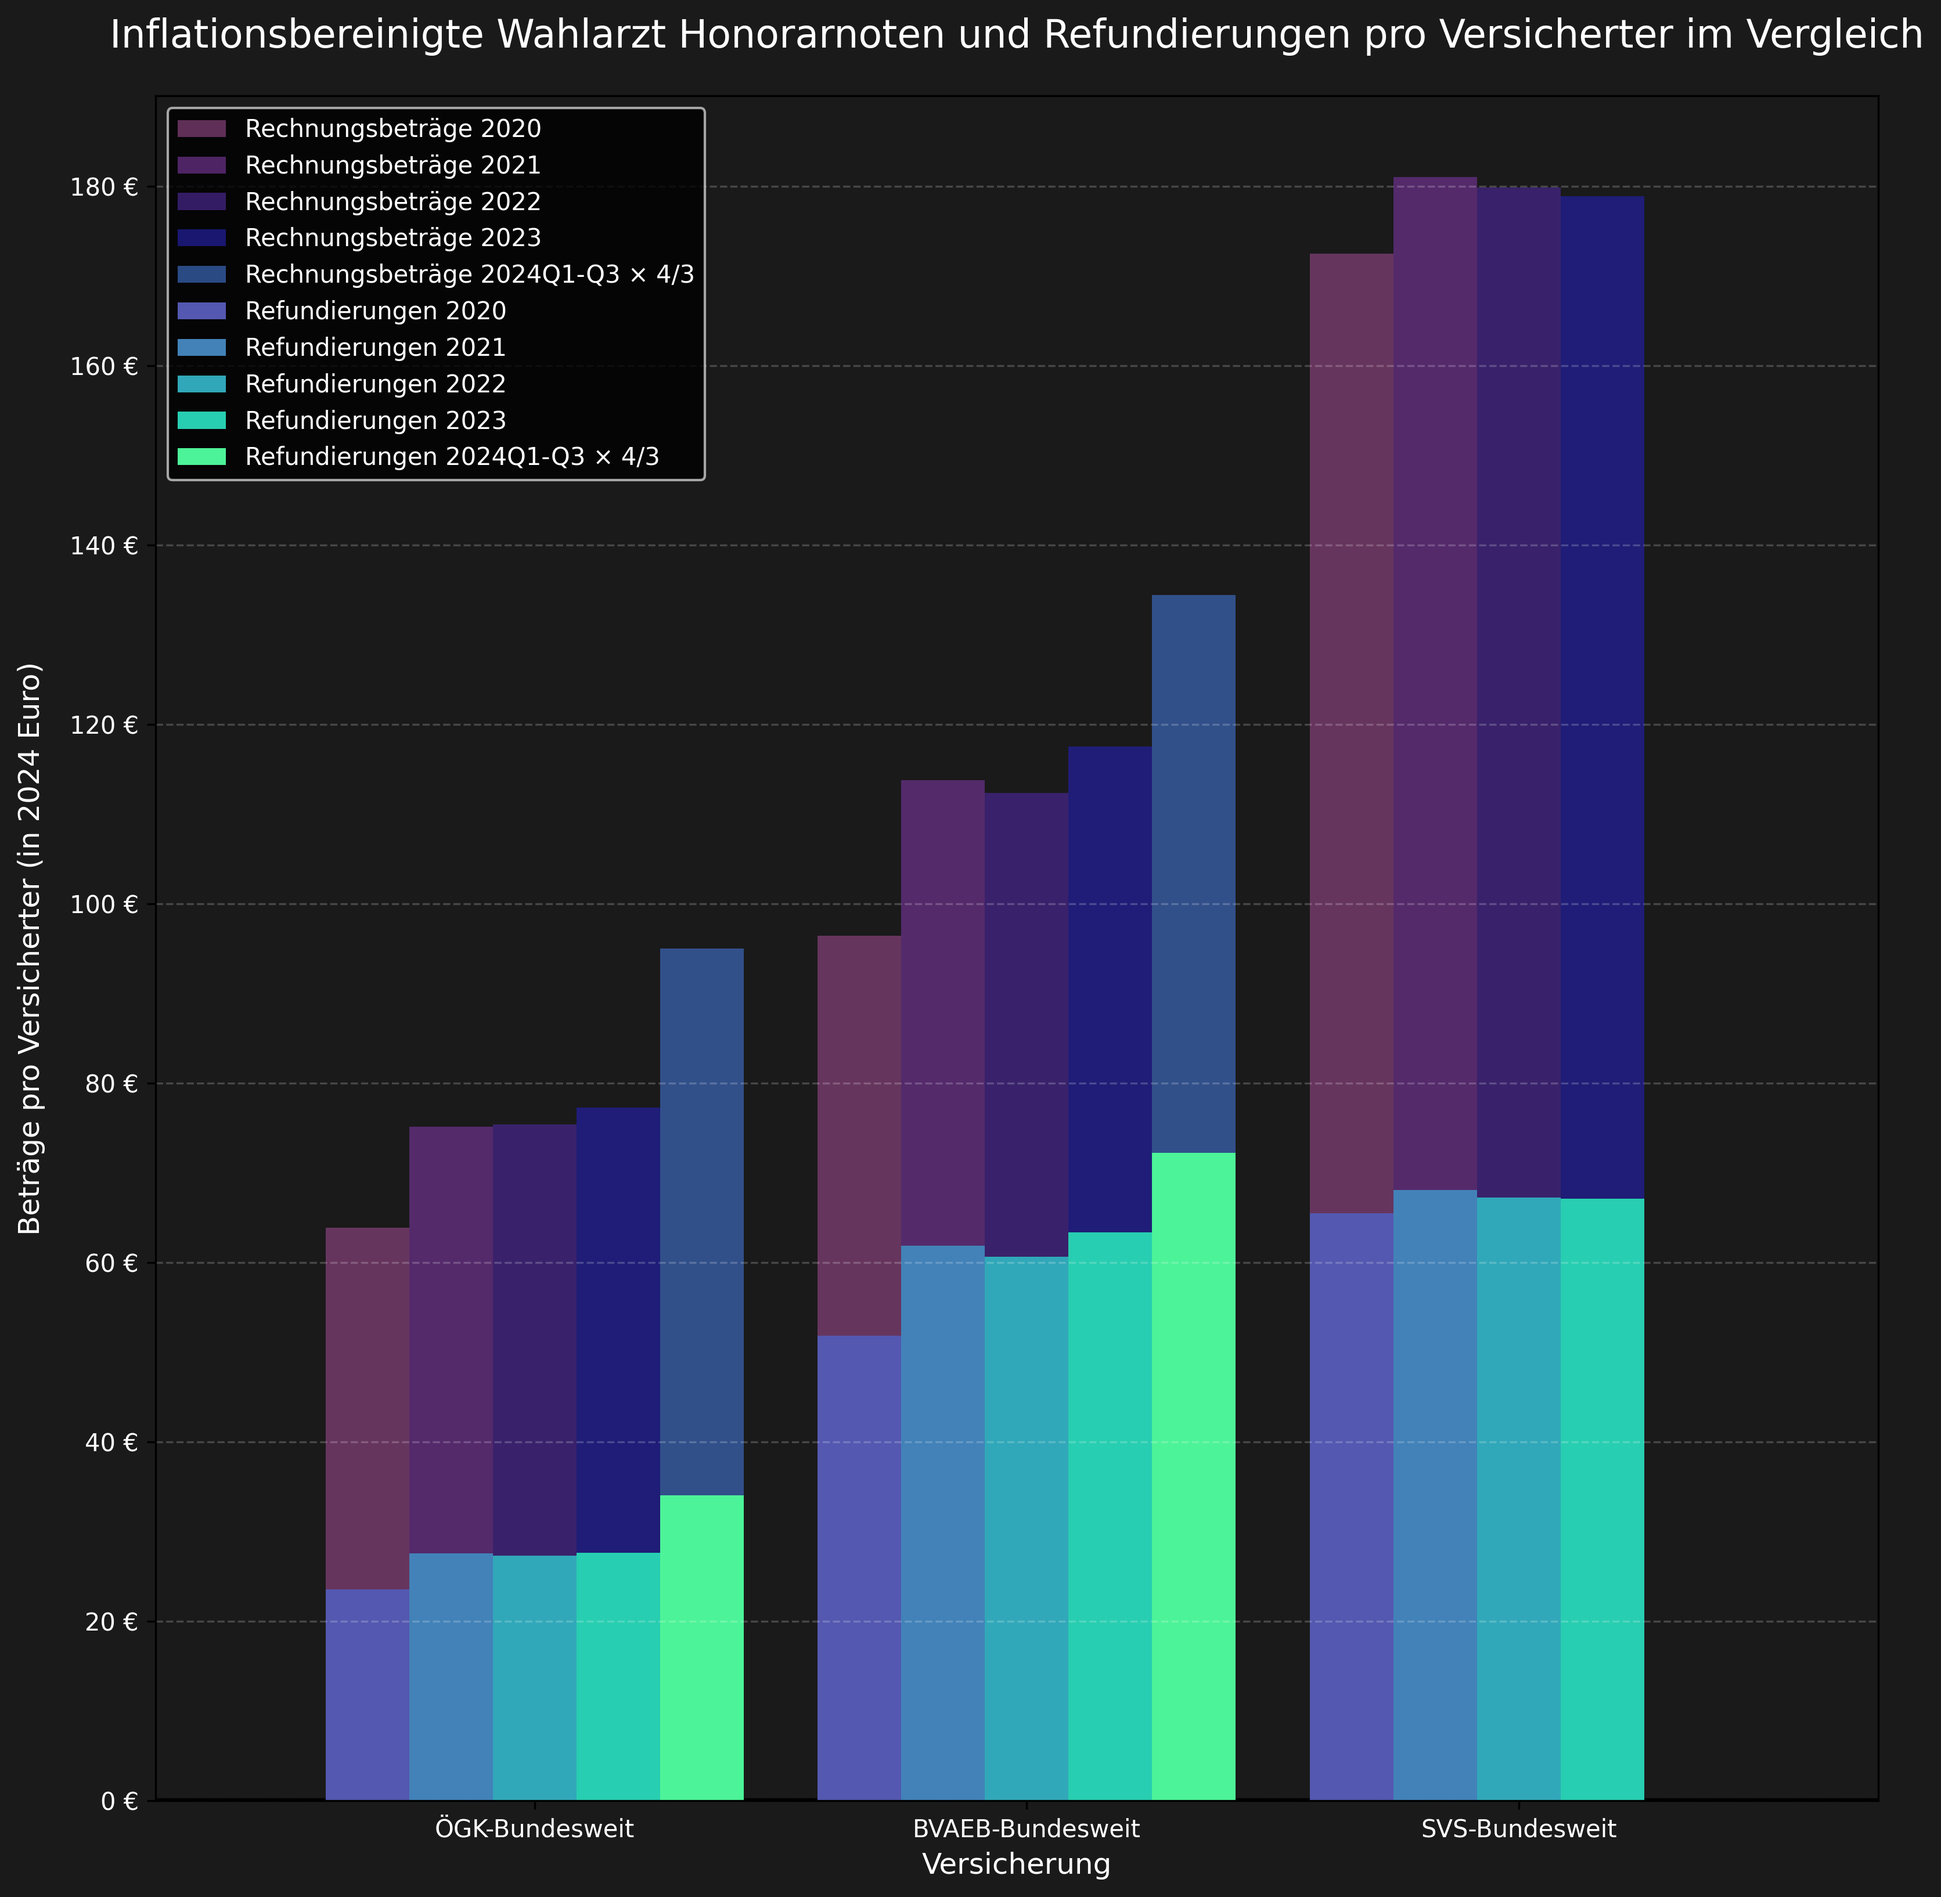
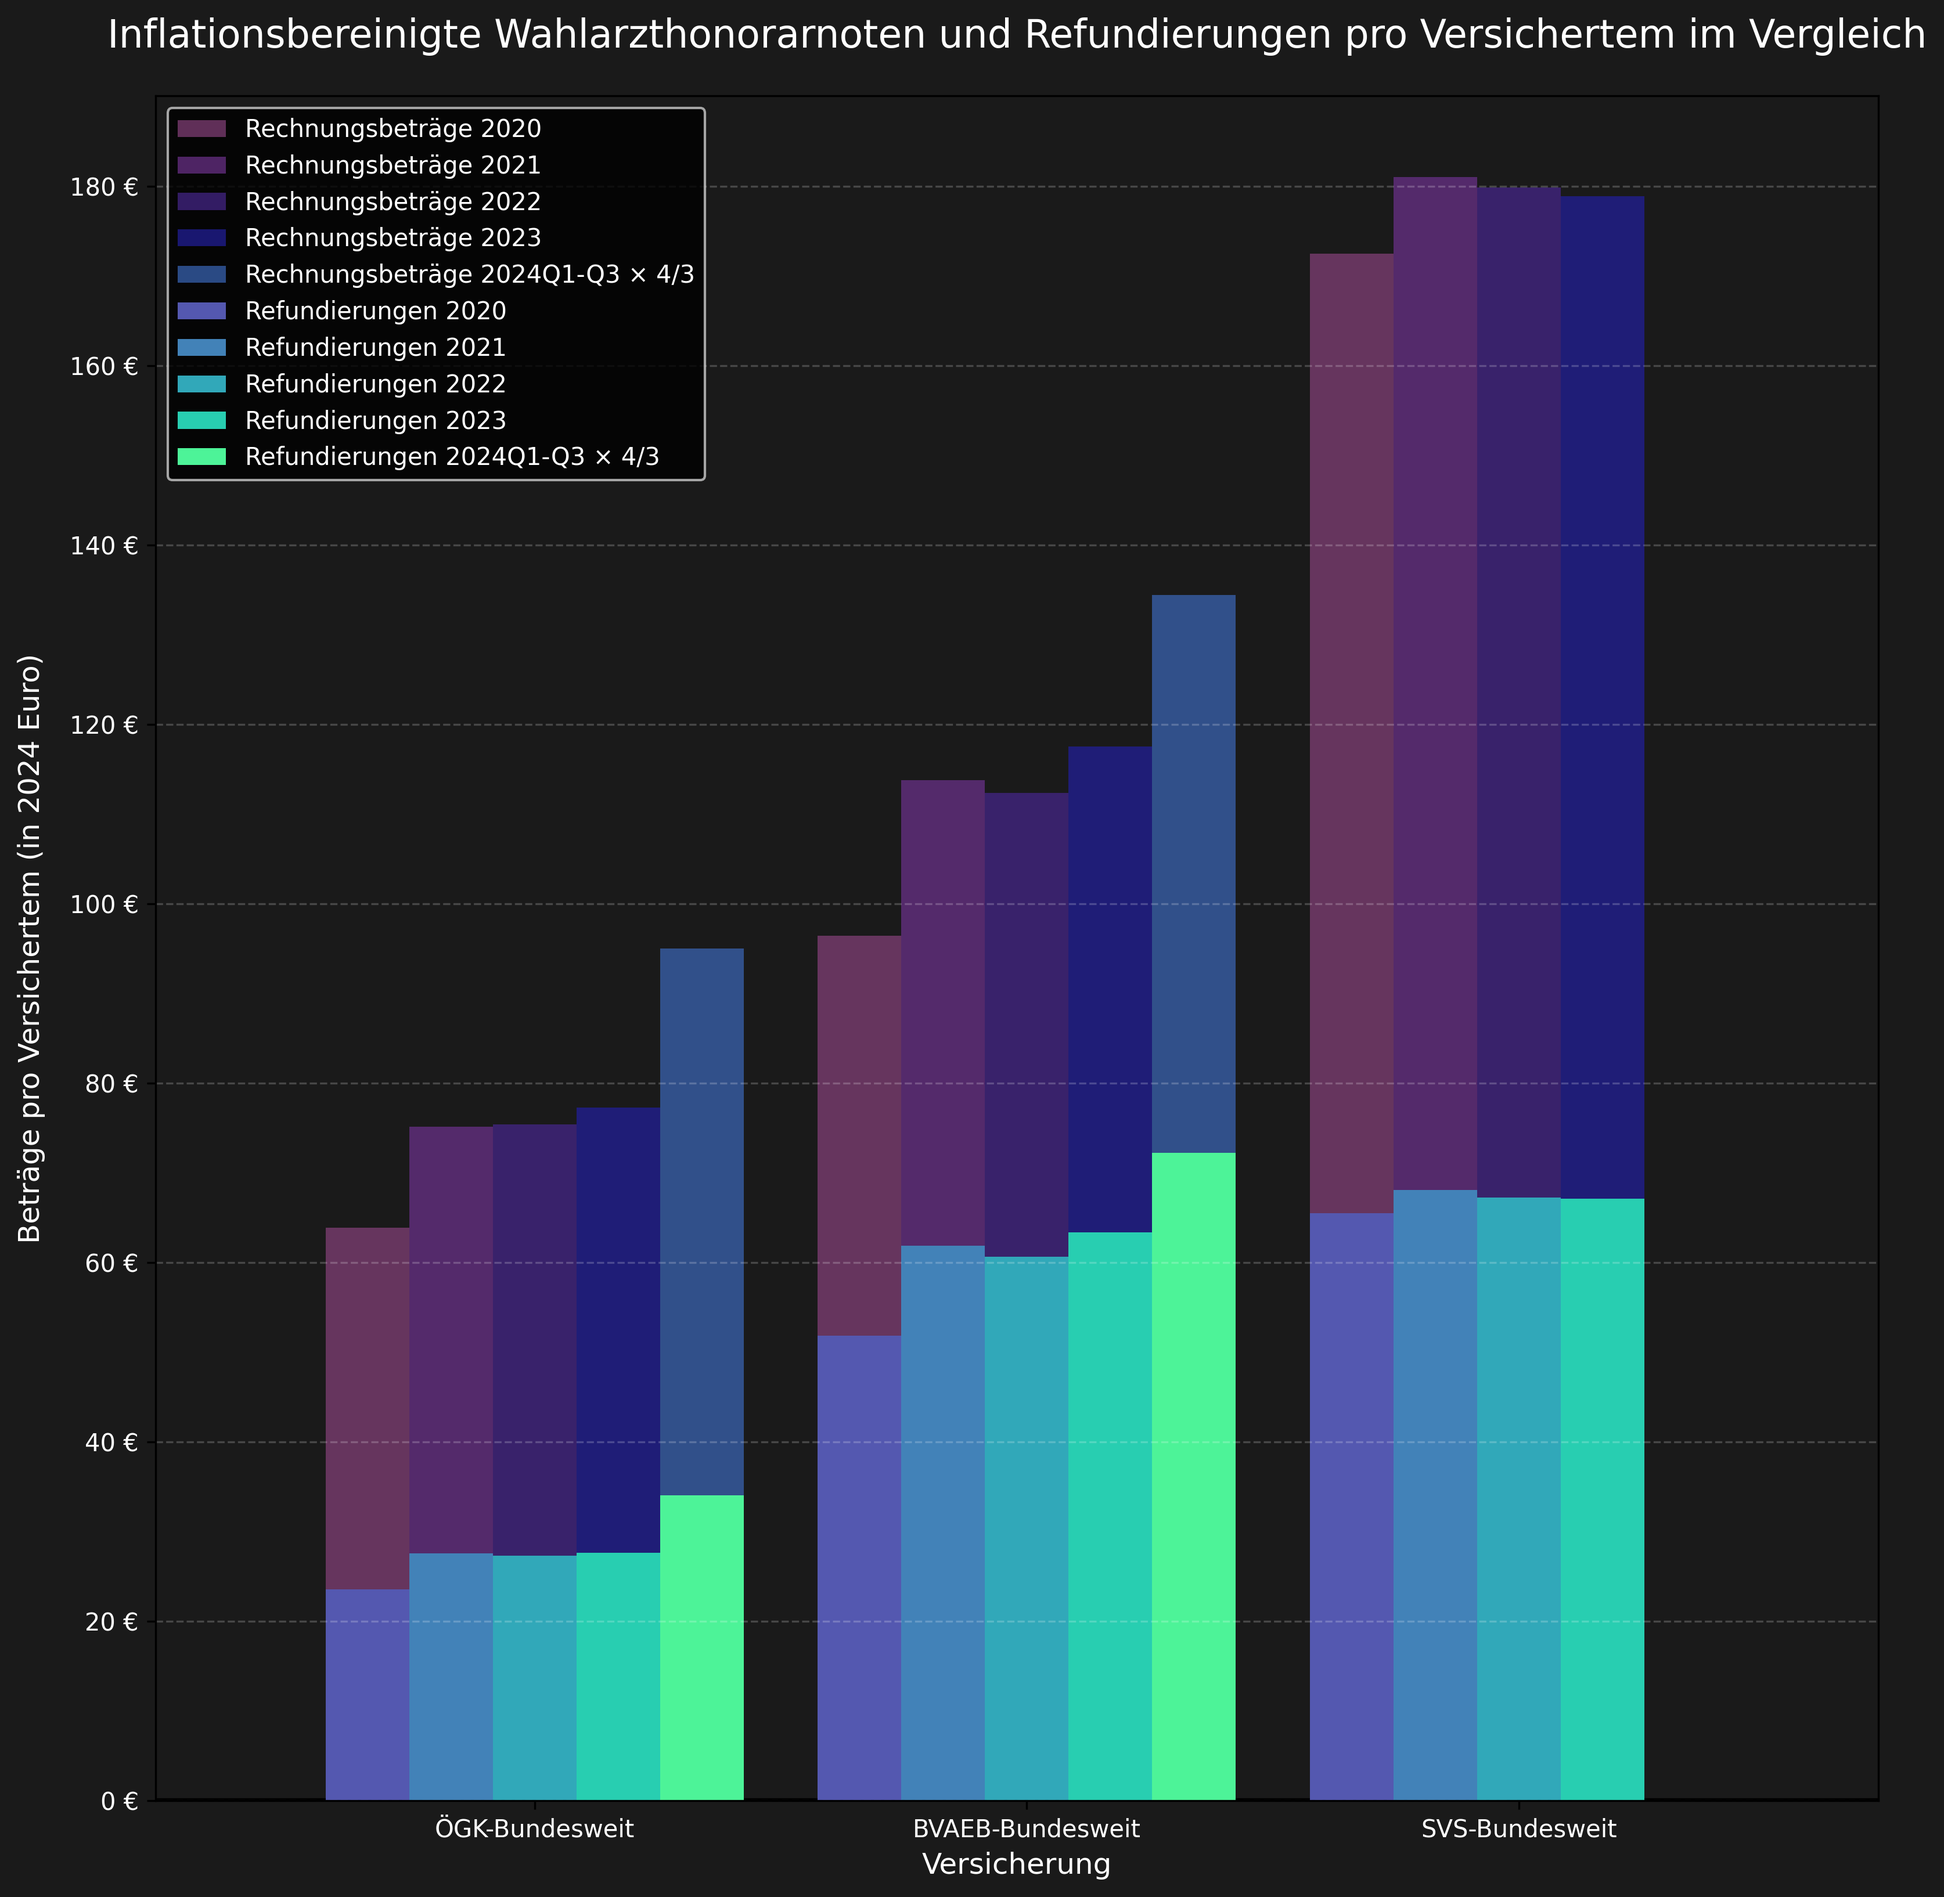
fixed plot titles

diff --git a/visualize/plot_bvaeb_betraege_weighted.py b/visualize/plot_bvaeb_betraege_weighted.py
@@ -247,14 +247,14 @@ def create_plot(input_file, dark_mode=True, is_updated=False, plot_type="betraeg
     # Set title and labels based on plot type
     if plot_type == "betraege":
         title_prefix = (
-            "BVAEB - Inflationsbereinigte Wahlarzt Honorarnoten und Refundierungen pro Versicherter"
+            "BVAEB - Inflationsbereinigte Wahlarzthonorarnoten und Refundierungen pro Versichertem"
         )
-        ylabel = "Beträge pro Versicherter (in 2024 Euro)"
+        ylabel = "Beträge pro Versichertem (in 2024 Euro)"
     else:
         title_prefix = (
-            "BVAEB - Inflationsbereinigte, durchschnittliche, nicht erstattete Wahlarzt-Kosten pro Versicherter"
+            "BVAEB - Inflationsbereinigte, durchschnittliche, nicht erstattete Wahlarzt-Kosten pro Versichertem"
         )
-        ylabel = "nicht erstattete Kosten pro Versicherter (in 2024 Euro)"
+        ylabel = "nicht erstattete Kosten pro Versichertem (in 2024 Euro)"
 
     if is_updated:
         title_prefix += " (Aktualisiert 2025)"

diff --git a/visualize/plot_insurance_comparison_weighted.py b/visualize/plot_insurance_comparison_weighted.py
@@ -250,14 +250,14 @@ def create_plot(bvaeb_file, oegk_file, svs_file, dark_mode=True, is_updated=Fals
     # Set title and labels based on plot type
     if plot_type == "betraege":
         title_prefix = (
-            "Inflationsbereinigte Wahlarzt Honorarnoten und Refundierungen pro Versicherter im Vergleich"
+            "Inflationsbereinigte Wahlarzthonorarnoten und Refundierungen pro Versichertem im Vergleich"
         )
-        ylabel = "Beträge pro Versicherter (in 2024 Euro)"
+        ylabel = "Beträge pro Versichertem (in 2024 Euro)"
     else:
         title_prefix = (
-            "Inflationsbereinigte, durchschnittliche, nicht erstattete Wahlarzt-Kosten pro Versicherter im Vergleich"
+            "Inflationsbereinigte, durchschnittliche, nicht erstattete Wahlarzt-Kosten pro Versichertem im Vergleich"
         )
-        ylabel = "nicht erstattete Kosten pro Versicherter (in 2024 Euro)"
+        ylabel = "nicht erstattete Kosten pro Versichertem (in 2024 Euro)"
 
     plt.title(
         title_prefix,

diff --git a/visualize/plot_oegk_betraege_weighted.py b/visualize/plot_oegk_betraege_weighted.py
@@ -266,14 +266,14 @@ def create_plot(input_file, dark_mode=True, is_updated=False, plot_type="betraeg
     # Set title and labels based on plot type
     if plot_type == "betraege":
         title_prefix = (
-            "ÖGK - Inflationsbereinigte Wahlarzt Honorarnoten und Refundierungen pro Versicherter"
+            "ÖGK - Inflationsbereinigte Wahlarzthonorarnoten und Refundierungen pro Versichertem"
         )
-        ylabel = "Beträge pro Versicherter (in 2024 Euro)"
+        ylabel = "Beträge pro Versichertem (in 2024 Euro)"
     else:
         title_prefix = (
-            "ÖGK - Inflationsbereinigte, durchschnittliche, nicht erstattete Wahlarzt-Kosten pro Versicherter"
+            "ÖGK - Inflationsbereinigte, durchschnittliche, nicht erstattete Wahlarztkosten pro Versichertem"
         )
-        ylabel = "nicht erstattete Kosten pro Versicherter (in 2024 Euro)"
+        ylabel = "nicht erstattete Kosten pro Versichertem (in 2024 Euro)"
 
     plt.title(
         title_prefix,
